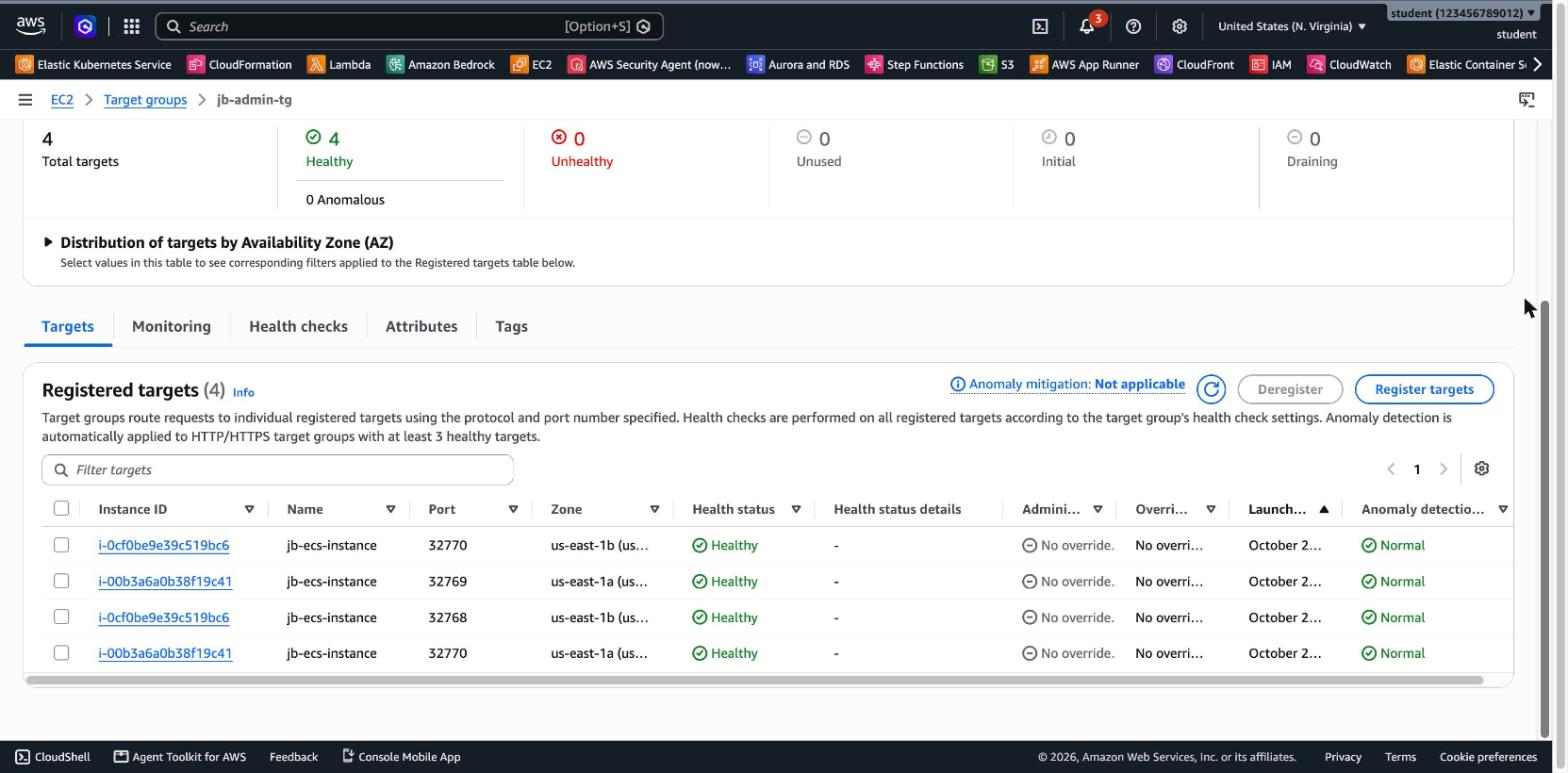
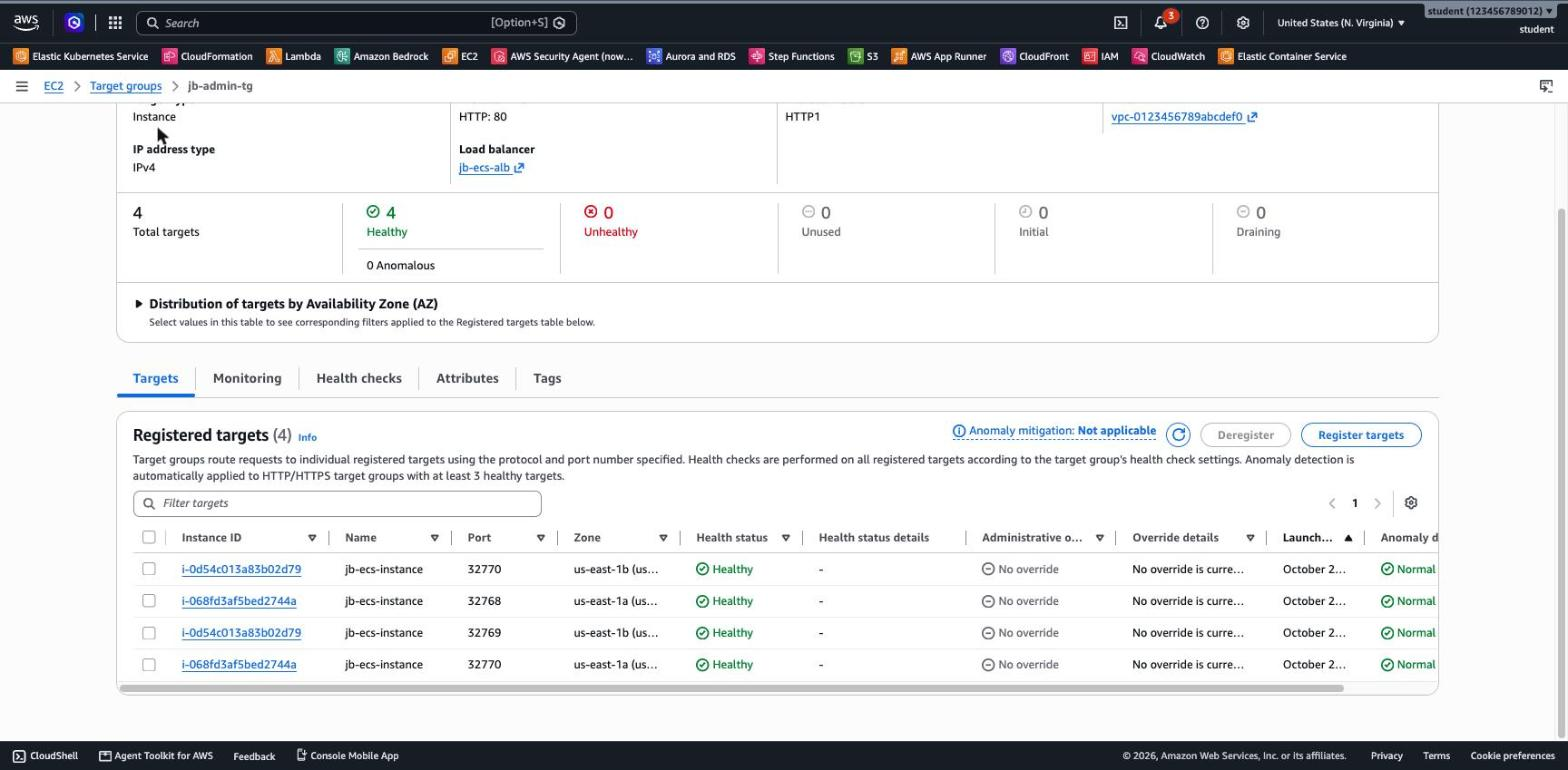
3.06 ECS labs 1-2: Console-valid task size (0.25 vCPU / 0.5 GB) on t3.small
- Task definitions use cpu 256 / memory 512, the smallest size in the
  Console's list (0.125/0.125 isn't offered while Fargate is selected)
- Cluster instances are t3.small (allowed by limits.md): 1,913 MiB for
  ECS fits 3 tasks per instance, so jb-lab-2 still runs 2-3 per instance
  and lab 1 Part F fails only on the busy port 8080
- Lab 1 tells students to clear AWS Fargate (no bridge mode with it)
- Real outputs from new Console/CLI/Terraform runs; retaken screenshots
  (lab1-02, lab1-03, lab2-01), new lab1-04-task-size.jpg, updated diagram
- Cost lines updated

diff --git a/3.06-containers/jb-lab-1-solution.md b/3.06-containers/jb-lab-1-solution.md
@@ -2,7 +2,7 @@
 
 [⬅ jb-lab-1](jb-lab-1.md) | [⬅ Back to 3.06 Containers](README.md) | [jb-lab-2 ➡](jb-lab-2.md)
 
-> Tested in `us-east-1` with the ECS-optimized Amazon Linux 2023 AMI (ECS agent 1.108.0, Docker 25.0.16) and `traefik/whoami`.
+> Tested in `us-east-1` on 2 × t3.small with the ECS-optimized Amazon Linux 2023 AMI (ECS agent 1.108.0, Docker 25.0.16) and `traefik/whoami`.
 
 **Jump to:** [Solution 1: Console](#solution-1-console-ui) · [Solution 2: AWS CLI](#solution-2-aws-cli) · [Answers](#answers) · [Solution 3: Terraform](#solution-3-terraform)
 
@@ -20,7 +20,7 @@
 
 ![Create cluster – Fargate and Self-managed instances](images/lab1-01-create-cluster-self-managed.jpg)
 
-- Auto Scaling group: **Create a new Auto Scaling group**, On-demand, **Amazon Linux 2023**, instance type **t3.micro**.
+- Auto Scaling group: **Create a new Auto Scaling group**, On-demand, **Amazon Linux 2023**, instance type **t3.small**.
 - EC2 instance role: **Create default role**. The Console creates `ecsInstanceRole`.
 - Desired capacity: **Minimum 2, Maximum 2**. SSH key pair: none.
 - Network settings: the default VPC, the subnets in **us-east-1a** and **us-east-1b**, security group `jb-ecs-instances-sg`, auto-assign public IP **Turn on**.
@@ -37,15 +37,20 @@ Choose **Create**. The Console uses CloudFormation to create the Auto Scaling Gr
 
 **ECS → Task definitions → Create new task definition**:
 
-- Family: `jb-whoami`. Launch type: **Amazon EC2 instances**. Network mode: **bridge**.
-- Task size: CPU **.125 vCPU**, memory **.125 GB**.
+- Family: `jb-whoami`. Launch type: **Amazon EC2 instances** only. Clear **AWS Fargate**, which is selected by default: Fargate supports only the `awsvpc` network mode.
+- Network mode: **bridge**.
+- Task size: CPU **.25 vCPU**, memory **.5 GB**.
 - Task execution role: **None**. The image is public and we don't send logs.
-- Container: name `whoami`, image `traefik/whoami`, port mapping **container port 80**, **host port 8080**.
+- Container: name `whoami`, image `traefik/whoami`, port mapping **host port 8080**, **container port 80**.
 - Log collection: clear **Use log collection** (it needs CloudWatch Logs and an execution role).
 
-The **JSON** tab shows exactly the fields from the background section:
+![Create task definition – EC2 only, bridge, .25 vCPU, .5 GB, no execution role](images/lab1-04-task-size.jpg)
 
-![Task definition JSON](images/lab1-04-task-definition-json.jpg)
+After **Create**, the task definition shows **Task CPU 256 units (0.25 vCPU)** and **Task memory 512 MiB**.
+
+> While **AWS Fargate** is still selected, CPU and memory are lists that start at **.25 vCPU** and **.5 GB**, the smallest Fargate size. We use that size here, so the same values work whether or not Fargate is selected.
+
+**How many tasks fit on an instance?** ECS places a task only on an instance with enough **free** CPU and memory. A t3.small gives ECS **2,048 CPU units** and **1,913 MiB** (the rest of its 2 GiB is for the OS and the ECS agent), so up to **3** of these tasks fit by memory (3 × 512 MiB). On a t3.micro (916 MiB) only one would fit, and jb-lab-2 needs two per instance.
 
 ### Part D: Service
 
@@ -61,14 +66,14 @@ Choose **Create**. After about a minute, **2 tasks** are *Running*, **one on eac
 Open `http://<public-ip-of-instance>:8080` for each instance (find the public IPs in **EC2 → Instances**):
 
 ```
-Hostname: eab05d01e7a9
+Hostname: 1aa3c18c261d
 IP: 127.0.0.1
 IP: 172.17.0.2
 ...
 ```
 
 ```
-Hostname: 17dd4924c2a3
+Hostname: cc4006a6de3a
 IP: 127.0.0.1
 IP: 172.17.0.2
 ...
@@ -87,7 +92,7 @@ IP: 172.17.0.2
 
 > *service whoami-svc was unable to place a task because no container instance met all of its requirements. The closest matching container-instance … is already using a port required by your task.*
 
-Both instances already use host port **8080**, so there's nowhere to put a third task. **10.** Set desired tasks back to **2**.
+Both instances already use host port **8080**, so there's nowhere to put a third task. CPU and memory aren't the problem: each instance still had **1,792 CPU units** and **1,401 MiB** free. **10.** Set desired tasks back to **2**.
 
 ### Part G: Clean up or continue
 
@@ -132,7 +137,7 @@ AMI_ID=$(aws ssm get-parameter --name /aws/service/ecs/optimized-ami/amazon-linu
   --query Parameter.Value --output text)
 UD=$(printf '#!/bin/bash\necho ECS_CLUSTER=jb-ecs-ec2 >> /etc/ecs/ecs.config\n' | base64 | tr -d '\n')
 cat > lt.json <<JSON
-{ "ImageId": "$AMI_ID", "InstanceType": "t3.micro",
+{ "ImageId": "$AMI_ID", "InstanceType": "t3.small",
   "IamInstanceProfile": { "Name": "ecsInstanceRole" },
   "NetworkInterfaces": [{ "DeviceIndex": 0, "AssociatePublicIpAddress": true, "Groups": ["$INST_SG"] }],
   "UserData": "$UD",
@@ -150,13 +155,15 @@ aws autoscaling create-auto-scaling-group --auto-scaling-group-name jb-ecs-asg \
 ```bash
 aws ecs describe-container-instances --cluster jb-ecs-ec2 \
   --container-instances $(aws ecs list-container-instances --cluster jb-ecs-ec2 --query containerInstanceArns --output text) \
-  --query 'containerInstances[].[ec2InstanceId,status,versionInfo.agentVersion,versionInfo.dockerVersion]' --output table
+  --query 'containerInstances[].[ec2InstanceId,status,versionInfo.agentVersion,versionInfo.dockerVersion,registeredResources[?name==`CPU`].integerValue|[0],registeredResources[?name==`MEMORY`].integerValue|[0]]' --output table
 ```
 
 ```
-|  i-0cf0be9e39c519bc6 |  ACTIVE |  1.108.0 |  DockerVersion: 25.0.16  |
-|  i-00b3a6a0b38f19c41 |  ACTIVE |  1.108.0 |  DockerVersion: 25.0.16  |
+|  i-068fd3af5bed2744a |  ACTIVE |  1.108.0 |  DockerVersion: 25.0.16  |  2048 |  1913 |
+|  i-0d54c013a83b02d79 |  ACTIVE |  1.108.0 |  DockerVersion: 25.0.16  |  2048 |  1913 |
 ```
+
+The last two columns are the CPU units and the memory (MiB) that each instance gives ECS for tasks.
 
 **Parts C–D: task definition and service:**
 
@@ -166,8 +173,8 @@ cat > td-whoami.json <<'JSON'
   "family": "jb-whoami",
   "networkMode": "bridge",
   "requiresCompatibilities": ["EC2"],
-  "cpu": "128",
-  "memory": "128",
+  "cpu": "256",
+  "memory": "512",
   "containerDefinitions": [{
     "name": "whoami",
     "image": "traefik/whoami",
@@ -230,7 +237,7 @@ aws iam delete-role --role-name ecsInstanceRole
 
 - **Task definition vs. task vs. service:** the **task definition** is the blueprint (JSON, versioned). A **task** is a running copy of it. A **service** keeps a desired number of tasks running, replaces failed ones, and can connect them to a load balancer.
 - **Who registered the instances:** the **ECS agent** on each instance. It reads the cluster name from `/etc/ecs/ecs.config` (written by the user data) and calls ECS with the permissions of the **instance role** (`AmazonEC2ContainerServiceforEC2Role`).
-- **Why the third task couldn't start:** both instances already use **host port 8080**, and a port can be bound only once per instance. You could add instances, or better, use **dynamic host ports** behind a load balancer, which is jb-lab-2.
+- **Why the third task couldn't start:** both instances already use **host port 8080**, and a port can be bound only once per instance. There was enough CPU and memory left for another task; only the port was missing. You could add instances, or better, use **dynamic host ports** behind a load balancer, which is jb-lab-2.
 - **S3 access for the container:** the **task role** (`taskRoleArn`). Not the instance role, which every task on the instance would share, and not the execution role, which ECS uses only to pull images and send logs.
 
 ---
@@ -251,11 +258,11 @@ for IP in $(eval "$(terraform output -raw find_instance_ips)"); do curl -s http:
 terraform destroy -var my_ip_cidr="0.0.0.0/32"                                   # about 3 minutes
 ```
 
-The tested run: `apply` took 55 s, and both tasks answered about 40 s later:
+The tested run (2 × t3.small): `apply` took 38 s, both tasks answered about 45 s later, and `destroy` took 186 s:
 
 ```
-Hostname: 91028b07a14d
-Hostname: c3d8dacdf188
+Hostname: 6f7bb6d7d042
+Hostname: 19314b929713
 ```
 
 > The Terraform code names the instance role `jb-ecs-instance-role`, so it doesn't collide with the `ecsInstanceRole` that the Console creates.

diff --git a/3.06-containers/jb-lab-2-solution.md b/3.06-containers/jb-lab-2-solution.md
@@ -2,7 +2,7 @@
 
 [⬅ jb-lab-2](jb-lab-2.md) | [⬅ Back to 3.06 Containers](README.md) | [jb-lab-3 ➡](jb-lab-3.md)
 
-> Tested in `us-east-1` on the `jb-ecs-ec2` cluster from jb-lab-1 (2 × t3.micro).
+> Tested in `us-east-1` on the `jb-ecs-ec2` cluster from jb-lab-1 (2 × t3.small).
 
 **Jump to:** [Solution 1: Console](#solution-1-console-ui) · [Solution 2: AWS CLI](#solution-2-aws-cli) · [Answers](#answers) · [Solution 3: Terraform](#solution-3-terraform)
 
@@ -20,7 +20,7 @@
 
 Create `jb-admin`, then `jb-store` (or create one and use **Create new revision → JSON**):
 
-- Launch type **EC2**, network mode **bridge**, 0.125 vCPU and 0.125 GB.
+- Launch type **EC2**, network mode **bridge**, 0.25 vCPU and 0.5 GB.
 - Container `whoami`, image `traefik/whoami`, **container port 80**, and **leave the host port empty**, which means dynamic.
 - Environment variable `WHOAMI_NAME` = `admin` (or `store`).
 
@@ -56,10 +56,9 @@ for i in 1 2 3 4 5 6; do curl -s http://<alb-dns>/admin | grep -E "^(Name|Hostna
 ```
 
 ```
-Name: admin Hostname: 9f1714a93597
-Name: admin Hostname: 727e07d6a98b
-Name: admin Hostname: 727e07d6a98b
-Name: admin Hostname: 9f1714a93597
+Name: admin Hostname: 5daa82303bab
+Name: admin Hostname: 5daa82303bab
+Name: admin Hostname: 58b521ec0dcf
 ...
 ```
 
@@ -69,10 +68,10 @@ A full response shows that the ALB adds the `X-Forwarded-*` headers and that eac
 
 ```
 Name: admin
-Hostname: 727e07d6a98b
-IP: 172.17.0.3
+Hostname: 277a7deb8d47
+IP: 172.17.0.4
 GET /admin HTTP/1.1
-Host: jb-ecs-alb-630146700.us-east-1.elb.amazonaws.com
+Host: jb-ecs-alb-2072728589.us-east-1.elb.amazonaws.com
 X-Forwarded-For: 203.0.113.10
 X-Forwarded-Port: 80
 X-Forwarded-Proto: http
@@ -83,11 +82,13 @@ X-Forwarded-Proto: http
 ![jb-admin-tg – dynamic host ports](images/lab2-01-dynamic-ports-targets.jpg)
 
 ```
-i-00b3a6a0b38f19c41   32769   healthy
-i-00b3a6a0b38f19c41   32770   healthy
-i-0cf0be9e39c519bc6   32768   healthy
-i-0cf0be9e39c519bc6   32770   healthy
+i-068fd3af5bed2744a   32768   healthy
+i-068fd3af5bed2744a   32770   healthy
+i-0d54c013a83b02d79   32769   healthy
+i-0d54c013a83b02d79   32770   healthy
 ```
+
+Each instance now runs **3 tasks** (2 admin + 1 store). With 0.5 GB per task, they use 1,536 of the 1,913 MiB that a t3.small gives ECS, so **377 MiB** are still free on each instance.
 
 ### Part F: Clean up or continue
 
@@ -116,8 +117,8 @@ cat > td-$SVC.json <<JSON
   "family": "jb-$SVC",
   "networkMode": "bridge",
   "requiresCompatibilities": ["EC2"],
-  "cpu": "128",
-  "memory": "128",
+  "cpu": "256",
+  "memory": "512",
   "containerDefinitions": [{
     "name": "whoami",
     "image": "traefik/whoami",
@@ -202,15 +203,15 @@ curl -s -w " [%{http_code}]\n" http://$(echo $URLS | cut -d/ -f3)/            # 
 terraform destroy    # about 9 minutes
 ```
 
-The tested run: `apply` took 157 s, and the targets were healthy about 1 minute later. Each path reaches its own service, and both tasks of each service answer:
+The tested run (2 × t3.small): `apply` took 160 s, and the targets were healthy about 1 minute later. Each path reaches its own service, and both tasks of each service answer:
 
 ```
-Name: admin Hostname: 490c86da6efa
-Name: admin Hostname: 490c86da6efa
-Name: admin Hostname: 5d6194b39366
-Name: store Hostname: cde7a1285434
-Name: store Hostname: 0ec886319a2e
-Name: store Hostname: cde7a1285434
+Name: admin Hostname: e5c1acfb0722
+Name: admin Hostname: 65da06089915
+Name: admin Hostname: e5c1acfb0722
+Name: store Hostname: 07233c963939
+Name: store Hostname: 07233c963939
+Name: store Hostname: c9a4c23e766e
 no route [404]
 ```
 

diff --git a/3.06-containers/jb-lab-1.md b/3.06-containers/jb-lab-1.md
@@ -48,8 +48,8 @@ These are the fields from the slides, as they appear in the task definition JSON
   "containerDefinitions": [{
     "name": "whoami",
     "image": "traefik/whoami",
-    "cpu": 128,
-    "memory": 128,
+    "cpu": 256,
+    "memory": 512,
     "portMappings": [{ "containerPort": 80, "hostPort": 8080, "protocol": "tcp" }]
   }]
 }
@@ -88,7 +88,7 @@ The slides show an older Console screen, with *Networking only (Fargate)*, *EC2 
 
 ## 🧪 jb-lab-1 (Basic): Cluster, Task Definition and Service on EC2
 
-> 💰 **Cost:** 2 × t3.micro, about **$0.03/hour** including public IPs. Up to 2 hours ≈ **$0.06**. If left running ≈ **$22/month**. Clean up at the end, or continue to jb-lab-2.
+> 💰 **Cost:** 2 × t3.small, about **$0.05/hour** including public IPs. Up to 2 hours ≈ **$0.10**. If left running ≈ **$38/month**. Clean up at the end, or continue to jb-lab-2.
 
 **Goal:** Create an ECS cluster with EC2 instances, describe a container in a task definition, run it as a service with 2 tasks, and see ECS keep the desired count. Then find the limit of static port mapping.
 
@@ -105,21 +105,25 @@ The slides show an older Console screen, with *Networking only (Fargate)*, *EC2 
 **Part B: Cluster with EC2 instances**
 
 2. In **ECS → Clusters → Create cluster**, name it **`jb-ecs-ec2`** and choose **Fargate and Self-managed instances**:
-   - Create a new Auto Scaling Group, OS **Amazon Linux 2023**, instance type **t3.micro**.
+   - Create a new Auto Scaling Group, OS **Amazon Linux 2023**, instance type **t3.small**.
    - Desired capacity: **min 2, max 2**. No SSH key pair.
    - Network: the **default VPC**, its public subnets, security group **`jb-ecs-instances-sg`**, auto-assign public IP **on**.
+   - Click `Create`
 3. Wait until **Infrastructure** shows **2 container instances**. Open one. What are its *Agent version* and *Docker version*?
 
 **Part C: Task definition**
 
 4. Create a task definition **`jb-whoami`**:
-   - Launch type **Amazon EC2 instances**, network mode **bridge**.
-   - Task size: CPU **0.125 vCPU**, memory **0.125 GB**.
+   - Launch type **Amazon EC2 instances** only (clear **AWS Fargate**, which doesn't support bridge mode).
+   - Network mode **bridge**.
+   - Task size: CPU **0.25 vCPU**, memory **0.5 GB** (the smallest size in the Console's list).
    - Container `whoami`, image **`traefik/whoami`**, port mapping **host port 8080 → container port 80**.
 
 **Part D: Service**
 
-5. In the cluster, create a service **`whoami-svc`** from `jb-whoami`, launch type **EC2**, **desired tasks: 2**.
+5. In the cluster, 
+   - Create a service **`whoami-svc`** from `jb-whoami`, launch type **EC2**, **desired tasks: 2**.
+   - Click `Create`
 6. Wait until **2 tasks** are *Running*. Which instance does each task run on?
 
 **Part E: Test**

diff --git a/3.06-containers/jb-lab-2.md b/3.06-containers/jb-lab-2.md
@@ -61,7 +61,7 @@ In [jb-lab-1](jb-lab-1.md), `hostPort: 8080` allowed only **one** task per insta
 
 ## 🧪 jb-lab-2 (Basic): Two Services Behind One ALB
 
-> 💰 **Cost:** the ALB plus 2 × t3.micro from jb-lab-1, about **$0.06/hour**. Up to 2 hours ≈ **$0.12**. If left running ≈ **$45/month**.
+> 💰 **Cost:** the ALB plus 2 × t3.small from jb-lab-1, about **$0.08/hour**. Up to 2 hours ≈ **$0.16**. If left running ≈ **$58/month**.
 
 **Goal:** Run two services, `admin` and `store`, on the jb-lab-1 cluster with **dynamic host ports**. Put **one ALB** in front of them that routes by **path**, and see several tasks share one instance.
 
@@ -81,7 +81,7 @@ In [jb-lab-1](jb-lab-1.md), `hostPort: 8080` allowed only **one** task per insta
 
 **Part B: Task definitions with dynamic ports**
 
-4. Create two task definitions, **`jb-admin`** and **`jb-store`**. Use EC2, network mode **bridge**, 0.125 vCPU and 0.125 GB:
+4. Create two task definitions, **`jb-admin`** and **`jb-store`**. Use EC2, network mode **bridge**, 0.25 vCPU and 0.5 GB:
    - Image `traefik/whoami`, container port **80**, and **no host port** (leave it empty).
    - Environment variable `WHOAMI_NAME` = `admin` or `store`.
 
